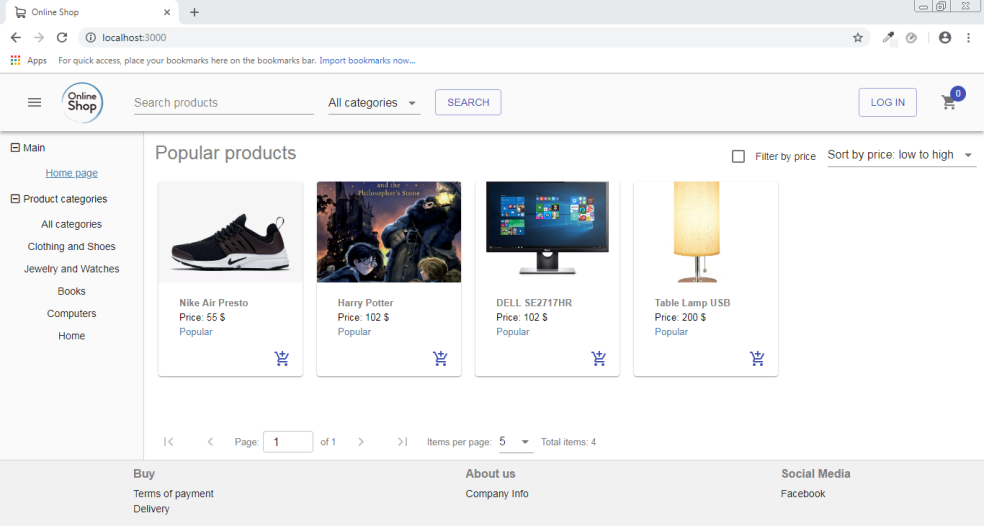
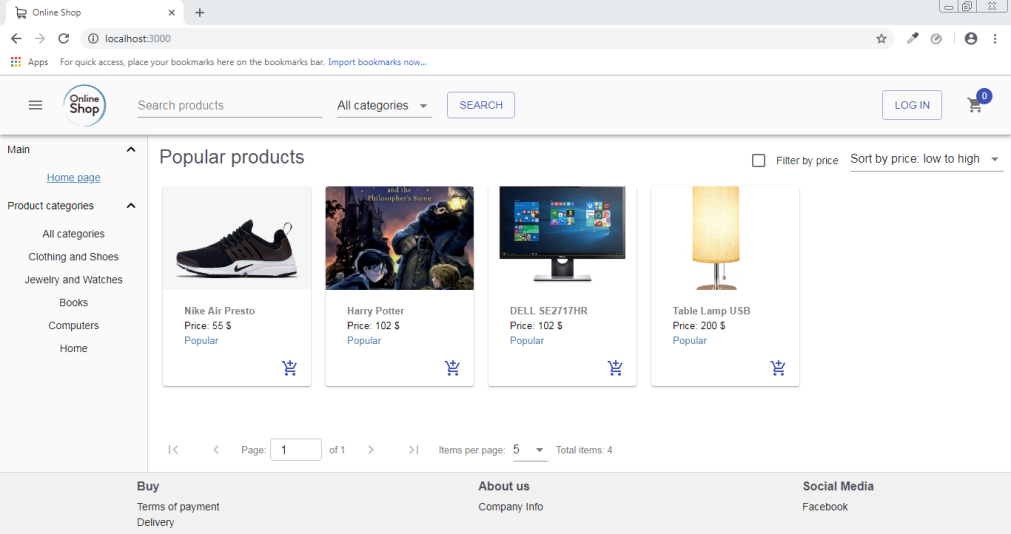
Change menu style and title colors

diff --git a/src/Components/Menu/Menu.js b/src/Components/Menu/Menu.js
@@ -5,13 +5,17 @@ import queryString from 'query-string'
 import { connect } from "react-redux";
 import { withRouter } from 'react-router-dom'
 import { categoryNames } from "../../Data"
-
+import ExpandLess from '@material-ui/icons/ExpandLess';
+import ExpandMore from '@material-ui/icons/ExpandMore';
+ 
 
 const mapStateToProps = state => {
     return { showMenu: state.showMenu, checkedOutItems: state.checkedOutItems, loggedInUser: state.loggedInUser };
 };
 
-// Generates menu data from input.
+// The menu UI is created from some data.
+// This function creates such data.
+// Should be noted both data and menu are pretty ad hoc.
 const generateMenuModel = (categories) => {
     let menuModel = [
         { type: "title", name: "Main", id: 0 },
@@ -59,6 +63,7 @@ class ConnectedMenu extends Component {
                         // For a menu item to be visible, it must either be a title,
                         // or its parent must be in expanded state and plus user must be allowed to see it.     
                         return (y.parentID === undefined || (this.state.expanded[y.parentID] && (!y.protected || this.props.loggedInUser)));
+                    
                     }).map((x, i) => {
 
                         if (x.type === "item") {
@@ -87,11 +92,12 @@ class ConnectedMenu extends Component {
 
                                     }}
                                     activeStyle={{
-                                         color: "#4282ad",
+                                        color: "#4282ad",
                                         textDecoration: "underline"
                                     }}
                                 >
                                     <div className="menuItem">{x.name}</div>
+
                                 </NavLink></div>);
                         } else if (x.type === "title") {
                             return (
@@ -109,12 +115,12 @@ class ConnectedMenu extends Component {
                                             }
                                         })
                                     }}
-                                    style={{ padding:5, height: 20, marginLeft: 10, marginTop: 10, cursor: "pointer", fontSize: 14 }}>
-                                    {this.state.expanded[x.id] ?
-                                        <i className="far fa-minus-square" style={{ marginRight: 5 }}></i> :
-                                        <i className="far fa-plus-square" style={{ marginRight: 5 }}></i>
-                                    }
-                                    <span>{x.name}</span>
+                                    style={{}}>
+
+                                    <div style={{ padding: 10, height: 20, fontSize:14, display: "flex", alignItems: "center", cursor: "pointer" }}>
+                                        <span style={{ flex: 1 }}>{x.name}</span>
+                                        {this.state.expanded[x.id] ? <ExpandLess   /> : <ExpandMore   />}
+                                    </div>
 
                                 </div>);
                         }

diff --git a/src/Components/Details/Details.js b/src/Components/Details/Details.js
@@ -64,7 +64,7 @@ class ConnectedDetails extends Component {
         return (
             <div className="details-page">
 
-                <div style={{fontWeight:"bold", fontSize:18, color:"gray", marginRight:15, lineHeight: "50px",  height: 50, borderRadius: "5px" }}>
+                <div style={{ color:"#504F5A",fontSize: 20, marginRight: 15, lineHeight: "50px", height: 50, borderRadius: "5px" }}>
                     {this.state.item.name}
                 </div>
                 <div className="details-page-content">
@@ -84,14 +84,14 @@ class ConnectedDetails extends Component {
                     </div>
                 </div>
 
-                <div style={{fontWeight:"bold", fontSize:18, color:"gray", marginRight:15, lineHeight: "50px",  height: 50, borderRadius: "5px" }}>
+                <div style={{color:"#504F5A", fontSize: 20, marginRight: 15, lineHeight: "50px", height: 50, borderRadius: "5px" }}>
                     Description
                  </div>
 
-                <div style={{color:"gray", marginTop: 5, marginLeft: 5, maxHeight: 200, fontSize: 13, overflow: "auto" }} dangerouslySetInnerHTML={this.state.item.description ? this.getRawMarkup(this.state.item.description) : { __html: "Not available" }}></div>
+                <div style={{ color: "gray", marginTop: 5, marginLeft: 5, maxHeight: 200, fontSize: 13, overflow: "auto" }} dangerouslySetInnerHTML={this.state.item.description ? this.getRawMarkup(this.state.item.description) : { __html: "Not available" }}></div>
 
 
-                <div style={{fontWeight:"bold", marginTop:10, fontSize:18, color:"gray", marginRight:15, lineHeight: "50px",  height: 50, borderRadius: "5px" }}>
+                <div style={{ color:"#504F5A", marginTop: 10, fontSize: 20, marginRight: 15, lineHeight: "50px", height: 50, borderRadius: "5px" }}>
                     Related Items
                  </div>
 
@@ -101,7 +101,7 @@ class ConnectedDetails extends Component {
                     marginTop: 5,
                     width: "100%",
                 }} cols={3}>
-                    {this.state.relatedItems.length === 0 ? <span style={{fontSize: 13, color:"gray", marginLeft: 10  }}>Not available</span> :
+                    {this.state.relatedItems.length === 0 ? <span style={{ fontSize: 13, color: "gray", marginLeft: 10 }}>Not available</span> :
                         this.state.relatedItems.map(item => (
                             <span key={item.id} style={{ marginLeft: 50, marginRight: 50 }}>
                                 <Item item={item} />

diff --git a/src/Components/Footer/Footer.js b/src/Components/Footer/Footer.js
@@ -5,10 +5,10 @@ import "./Footer.css"
 class Footer extends Component {
     render() {
         return (
-            <div style={{ boxSizing: "border-box", padding: 10, borderTop: "1px solid lightgray", height: 100, backgroundColor: "#f1f1f1", justifyContent: "space-around", display: "flex" }}>
+            <div style={{  boxSizing: "border-box", padding: 10, borderTop: "1px solid lightgray", height: 100, backgroundColor: "#f1f1f1", justifyContent: "space-around", display: "flex" }}>
 
                 <div>
-                    <div style={{ fontWeight: "bold", marginBottom: 10, color: "gray" }}>Buy</div>
+                    <div style={{ color:"#504F5A",fontWeight: "bold", marginBottom: 10 }}>Buy</div>
                     <NavLink
                         to={"/payment"}
                         exact
@@ -43,7 +43,7 @@ class Footer extends Component {
                     </NavLink>
                 </div>
                 <div>
-                    <div style={{ fontWeight: "bold", marginBottom: 10, color: "gray" }}>About us</div>
+                    <div style={{ color:"#504F5A",fontWeight: "bold", marginBottom: 10  }}>About us</div>
                     <NavLink
                         to={"/info"}
                         exact
@@ -62,7 +62,7 @@ class Footer extends Component {
                     </NavLink>
                 </div>
                 <div>
-                    <div style={{ fontWeight: "bold", marginBottom: 10, color: "gray" }}>Social Media</div>
+                    <div style={{ color:"#504F5A",fontWeight: "bold", marginBottom: 10 }}>Social Media</div>
                     <a href="http://www.facebook.com"
                         target="blank"
                         style={{

diff --git a/src/Components/CartDialog/CartDialog.js b/src/Components/CartDialog/CartDialog.js
@@ -37,7 +37,7 @@ class ConnectedCartDialog extends Component {
 
                     <div style={{ display: "flex", marginTop: 25 }}>
                         <ShoppingCartIcon fontSize="large" style={{ marginLeft: 10, color: "#4282ad" }} />
-                        <div style={{ marginTop: 10, marginLeft: 10, fontSize: 16, color: "gray" }}>Products in cart  </div>
+                        <div style={{ color:"#504F5A",marginTop: 10, marginLeft: 10, fontSize: 16  }}>Products in cart  </div>
                     </div>
 
                     <div style={{ minWidth: 300, maxHeight: 400, overflow: "auto" }}>
@@ -59,7 +59,7 @@ class ConnectedCartDialog extends Component {
                     </div>
 
                     <div style={{ marginTop: 20 }}>
-                        <div style={{ float: "left", margin: 10, marginTop: 20, fontSize: 20, color: "gray", fontWeight: "bold" }}> Total Price: {totalPrice} $</div>
+                        <div style={{ color:"#504F5A", float: "left", margin: 10, marginTop: 20, fontSize: 20  }}> Total Price: {totalPrice} $</div>
                         <Button style={{ float: "right", margin: 20 }}
                             variant="outlined"
                             color="primary"

diff --git a/src/Components/Login/Login.js b/src/Components/Login/Login.js
@@ -29,8 +29,8 @@ class ConnectedLogin extends Component {
 
         return (
             <div className="login-container">
-                <div style={{display:"flex", flexDirection:"column"}}>
-                    <div style={{ marginBottom: 50, fontSize: 26, textAlign: "center", color: "gray" }}> Log in </div>
+                <div style={{ height: 200, width: 200, display: "flex", flexDirection: "column" }}>
+                    <div style={{ color:"#504F5A", marginBottom: 50, fontSize: 26, textAlign: "center" }}> Log in </div>
                     <TextField
                         value={this.state.userName}
                         placeholder="User name"

diff --git a/src/Components/Order/Order.js b/src/Components/Order/Order.js
@@ -52,7 +52,7 @@ class ConnectedOrder extends Component {
                     </TableBody>
                 </Table>
 
-                <div style={{ marginLeft: 5, marginTop: 50, fontSize: 22 }}>Total price: {totalPrice} $</div>
+                <div style={{ color:"#504F5A", marginLeft: 5, marginTop: 50, fontSize: 22 }}>Total price: {totalPrice} $</div>
                 <Button
                     color="primary"
                     variant="outlined"

diff --git a/src/Components/Paging/Paging.js b/src/Components/Paging/Paging.js
@@ -20,7 +20,7 @@ const Paging = (props) => {
 
 
     return (
-        <div style={{display:"flex", marginBottom:5, marginTop:15, height:60, fontSize:13, color:"gray", alignItems:"center"}} >
+        <div style={{display:"flex", marginBottom:10, marginTop:15, height:60, fontSize:13, color:"gray", alignItems:"center"}} >
                  <IconButton
                     size="small"
                     color="primary"

diff --git a/src/App.css b/src/App.css
@@ -32,5 +32,5 @@ body {
 .online-shop-title {
   font-size: 26px;
   margin: 5px;
-  color: gray;
+  color:#504F5A;
 }
